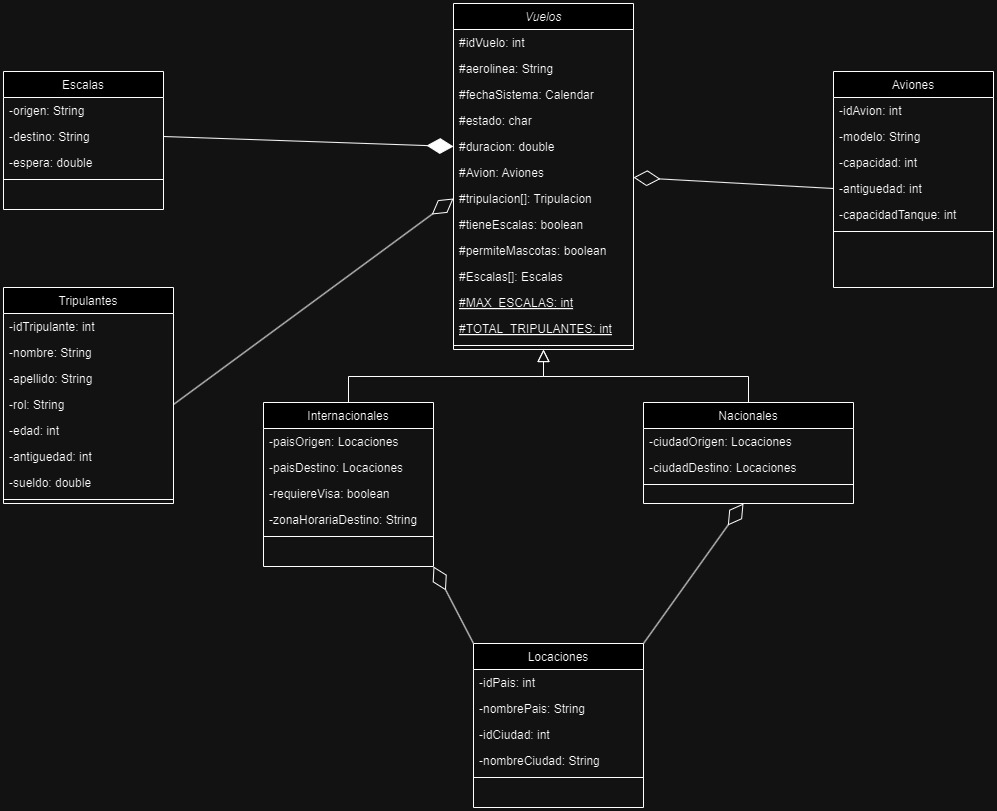
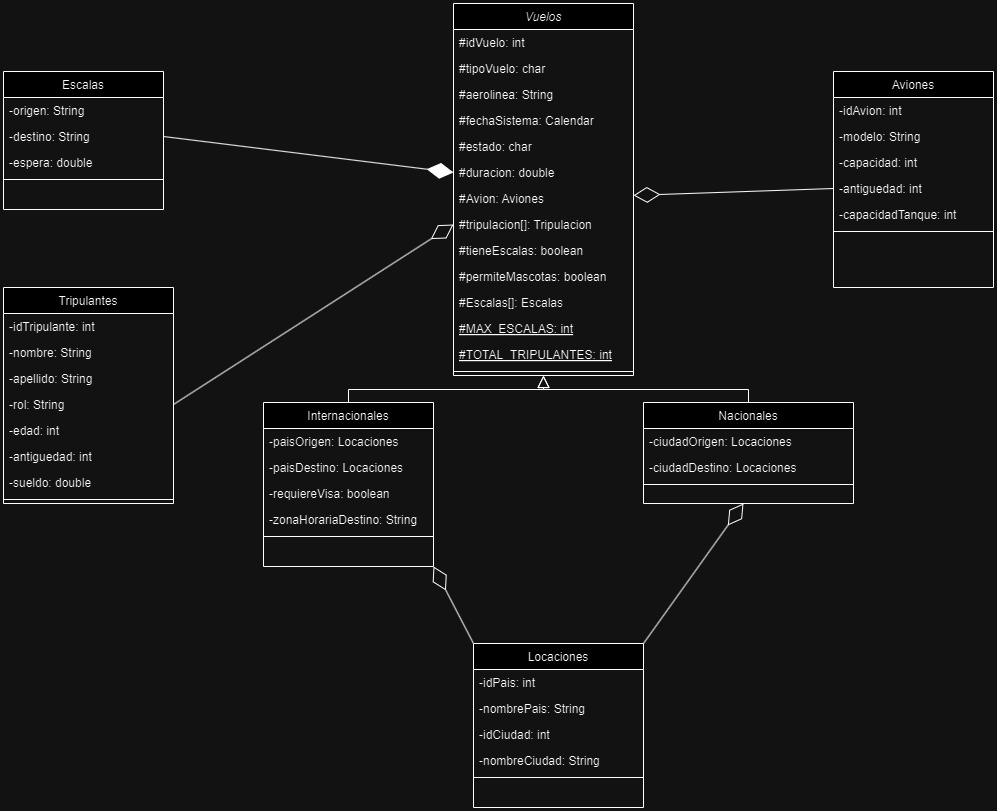
First steps for consultaMasiva feature and updated UML

diff --git a/src/view/ConsultaMasivaGUI.java b/src/view/ConsultaMasivaGUI.java
@@ -4,38 +4,127 @@ package view;
 // El sistema mostrará en una grilla de consulta de registros, con no menos de 6 columnas, todos aquellos que coincidan total o parcialmente con el 
 // o los criterios de búsquedas ingresados. En caso, que el usuario no ingrese ningún filtro, se mostrarán la totalidad de los registros.
 // Mostrar dichos registros ordenados en forma ascendente, según algún criterio que considere oportuno. La pantalla deberá incluir la cantidad total
-//  de registros visualizados y la cantidad total de registros existentes.
+// de registros visualizados y la cantidad total de registros existentes.
 
 import java.awt.FlowLayout;
-import javax.swing.JFrame;
+import javax.swing.*;
+import javax.swing.table.DefaultTableModel;
 
+import controller.VuelosController;
+
+import java.awt.*;
 import java.awt.event.ActionEvent;
 import java.awt.event.ActionListener;
+import java.util.ArrayList;
+import java.util.List;
 
+public class ConsultaMasivaGUI implements ActionListener {
+    private static final int WIDTH = 800;
+    private static final int HEIGHT = 600;
+    private static final int TEXTFIELD_WIDTH = 12;
 
-public class ConsultaMasivaGUI implements ActionListener{
-    private static final int WIDTH = 700;
-    private static final int HEIGHT = 500;
 
     private JFrame ventana = new JFrame("Consulta Masiva");
-    private FlowLayout layout = new FlowLayout();
+    private BorderLayout layout = new BorderLayout();
 
+    private JPanel filterPanel = new JPanel();
+    private JLabel lblFilter1 = new JLabel("Filtro 1:");
+    private JTextField filterField1 = new JTextField(TEXTFIELD_WIDTH);
+    private JLabel lblFilter2 = new JLabel("Filtro 2:");
+    private JTextField filterField2 = new JTextField(TEXTFIELD_WIDTH);
+    private JButton searchButton = new JButton("Buscar");
+
+    private JPanel infoPanel = new JPanel();
+    private JLabel totalRecordsLabel = new JLabel("Total de registros: 0");
+    private JLabel displayedRecordsLabel = new JLabel("Registros visualizados: 0");
+
+    private JScrollPane spRecordsTable;
+    private DefaultTableModel tableModel;
+    private JTable tblRecordsTable;
+
+    private List<String[]> allRecords; // This should be replaced with your actual data source
+
+    private VuelosController vuelosController;
     
-
-    public ConsultaMasivaGUI() {
-        ventana.setSize(WIDTH, HEIGHT);
+    public ConsultaMasivaGUI(VuelosController vuelosController) {
+        this.vuelosController = vuelosController;
+        ventana.setSize(800, 600);
         ventana.setLayout(layout);
+
+
+        // Initialize table
+        String[] columnNames = {"ID Vuelo", "Tipo de Vuelo", "Aerolinea", "Estado", "Duracion", "Avion", "Tiene escalas?", "Origen", "Destino"};
+        tableModel = new DefaultTableModel(columnNames, 0);
+        tblRecordsTable = new JTable(tableModel);
+
+        // Layout setup
+        filterPanel.add(lblFilter1);
+        filterPanel.add(filterField1);
+        filterPanel.add(lblFilter2);
+        filterPanel.add(filterField2);
+        filterPanel.add(searchButton);
+
+        infoPanel.add(totalRecordsLabel);
+        infoPanel.add(displayedRecordsLabel);
+
+        spRecordsTable = new JScrollPane(tblRecordsTable);
+        ventana.add(filterPanel, BorderLayout.NORTH);
+        ventana.add(spRecordsTable, BorderLayout.CENTER);
+        ventana.add(infoPanel, BorderLayout.SOUTH);
+
+        // Load all records (this should be replaced with your actual data loading logic)
+        loadAllRecords();
+
+        // Add action listener to the search button
+        searchButton.addActionListener(this);
+
+        // Display all records initially
+        displayRecords(allRecords);
 
         ventana.setVisible(true);
     }
 
     @Override
     public void actionPerformed(ActionEvent e) {
+        Object source = e.getSource();
 
     }
 
+    private void loadAllRecords() {
+        // This method should load all records from your data source
+        allRecords = new ArrayList<>();
+        // Example data
+        allRecords.add(new String[]{"A1", "B1", "C1", "D1", "E1", "F1"});
+        allRecords.add(new String[]{"A2", "B2", "C2", "D2", "E2", "F2"});
+        // Add more records as needed
+        totalRecordsLabel.setText("Total de registros: " + allRecords.size());
+    }
 
+    private void filterRecords() {
+        String filter1 = filterField1.getText().toLowerCase();
+        String filter2 = filterField2.getText().toLowerCase();
 
+        List<String[]> filteredRecords = new ArrayList<>();
+        for (String[] record : allRecords) {
+            boolean matchesFilter1 = filter1.isEmpty() || record[0].toLowerCase().contains(filter1);
+            boolean matchesFilter2 = filter2.isEmpty() || record[1].toLowerCase().contains(filter2);
+            if (matchesFilter1 && matchesFilter2) {
+                filteredRecords.add(record);
+            }
+        }
 
-    
+        // Sort records (example: sort by the first column)
+        filteredRecords.sort((r1, r2) -> r1[0].compareTo(r2[0]));
+
+        displayRecords(filteredRecords);
+    }
+
+    private void displayRecords(List<String[]> records) {
+        tableModel.setRowCount(0); // Clear existing rows
+        for (String[] record : records) {
+            tableModel.addRow(record);
+        }
+        displayedRecordsLabel.setText("Registros visualizados: " + records.size());
+    }
+
 }

diff --git a/src/view/MainGUI.java b/src/view/MainGUI.java
@@ -78,6 +78,7 @@ public class MainGUI implements ActionListener {
 
         ingresoItem.addActionListener(this);
         consultaItem.addActionListener(this);
+        consultaMasivaItem.addActionListener(this);
         estadisticasItem1.addActionListener(this);
         estadisticasItem2.addActionListener(this);
         estadisticasItem3.addActionListener(this);
@@ -99,11 +100,13 @@ public class MainGUI implements ActionListener {
             System.exit(0);
         } 
     } else if (source == acercaDeItem) {
-        JOptionPane.showMessageDialog(null, "Sistema de gestión de vuelos\nVersion: 4.0\nAño: 2024\nAutor: Facundo Roca", "Acerca de...", JOptionPane.INFORMATION_MESSAGE);
+        JOptionPane.showMessageDialog(null, "Sistema de gestión de vuelos\nVersion: 4.2\nAño: 2024\nAutor: Facundo Roca", "Acerca de...", JOptionPane.INFORMATION_MESSAGE);
     } else if (source == ingresoItem) {
         new IngresoGUI(avionesController, locacionesController, tripulantesController, vuelosController);
     } else if (source == consultaItem) {
         new ConsultaActualizacionGUI(vuelosController, avionesController, tripulantesController, locacionesController);
+    } else if (source == consultaMasivaItem) {
+        new ConsultaMasivaGUI(vuelosController);
     } else if (source == estadisticasItem1) {
         new Estadisticas1GUI(vuelosController);
     } else if (source == estadisticasItem2) {
